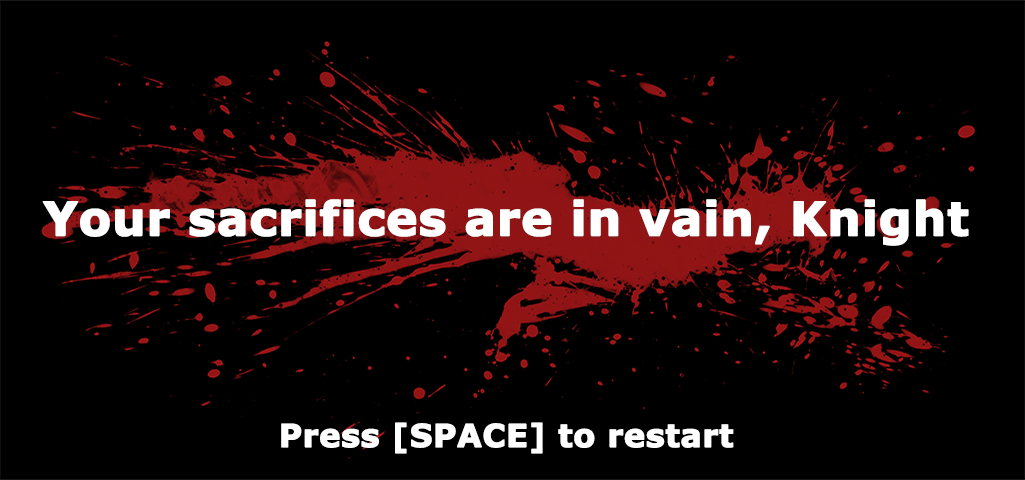
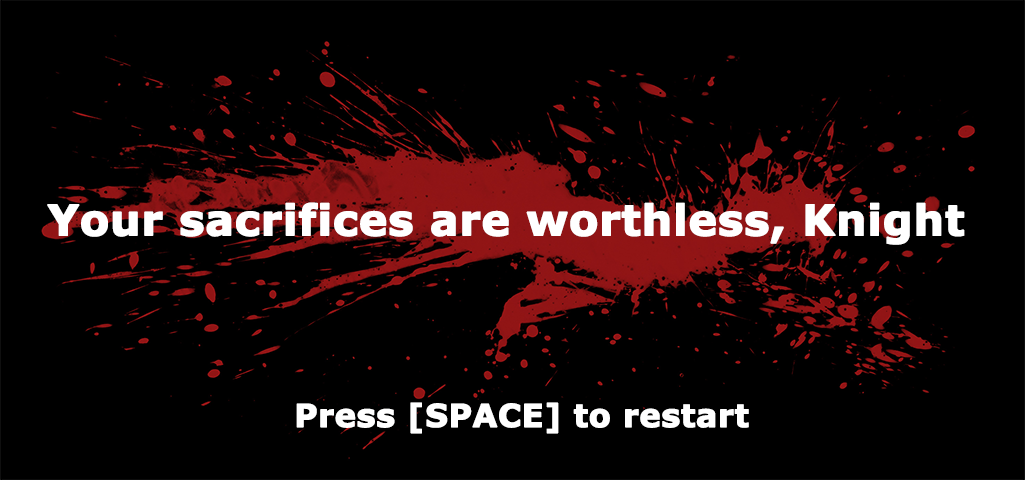
small game/feature: health collection fix; game over screen fix

Changed region(s): [[0.0312, 0.4062, 0.9678, 0.5], [0.2498, 0.8125, 0.7493, 0.9375]]

diff --git a/gameCode/code.js b/gameCode/code.js
@@ -215,6 +215,7 @@ window.onload = function() {
         else {
             player.kill();
             heartScale["children"].pop();
+            firstScaleHeartX -= 20;
             player.reset(52, 52)
         }
     }
@@ -346,19 +347,4 @@ window.onload = function() {
         }
     }
 
-    function restart () {
-
-    hearts["children"].length = 0;
-    stars["children"].length = 0;
-    blobs["children"].length = 0;
-    zombies["children"].length = 0;
-
-    // enetetiesPositioning()
-    // threeLives();
-    create();
-    scoreText.text = 'Hearts: 0/666';
-    player = game.add.sprite(52, 52, 'dude');
-    youLose.visible = false;
-
-    }
 }
